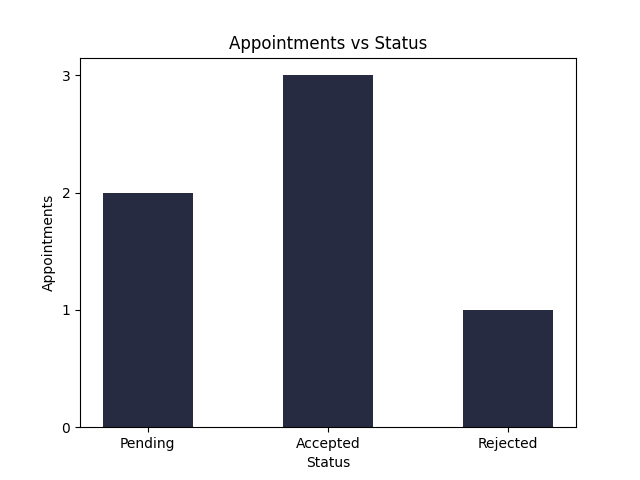
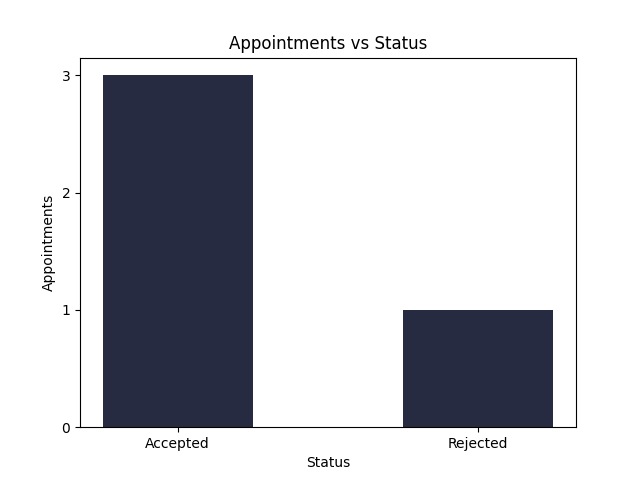
bar_graph_axis correction

Changed region(s): [[0.1562, 0.1562, 0.4062, 0.9375], [0.4375, 0.1562, 0.5938, 0.9375], [0.625, 0.625, 0.8438, 0.9375]]

diff --git a/docbook/doctor/views.py b/docbook/doctor/views.py
@@ -208,14 +208,16 @@ def generateDoctorAppointmentGraph(docUser):
     res = Appointments.objects.filter(DoctorUser=docUser).values('Status').annotate(scount=Count('Status')).order_by('Status')
     app_count = []
     sts_list = []
+
     for i, c in enumerate(res):
         app_count.append(c['scount'])
         sts_list.append(c['Status'])
-
+    
     x = np.array(sts_list)
     y = np.array(app_count)
+
     plt.clf()
-    plt.locator_params(axis="y", tight=True)
+    plt.locator_params(axis="y",integer=True, tight=True)
     plt.bar(x, y, color='#272b41', width=.5)
     plt.xlabel("Status")
     plt.ylabel("Appointments")
